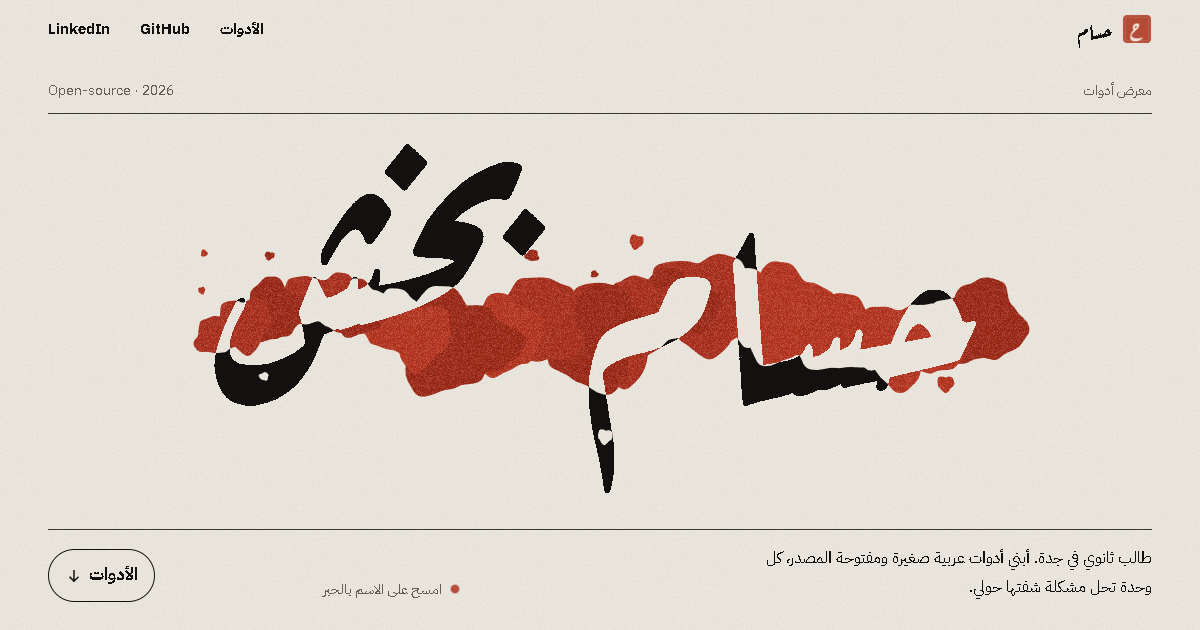
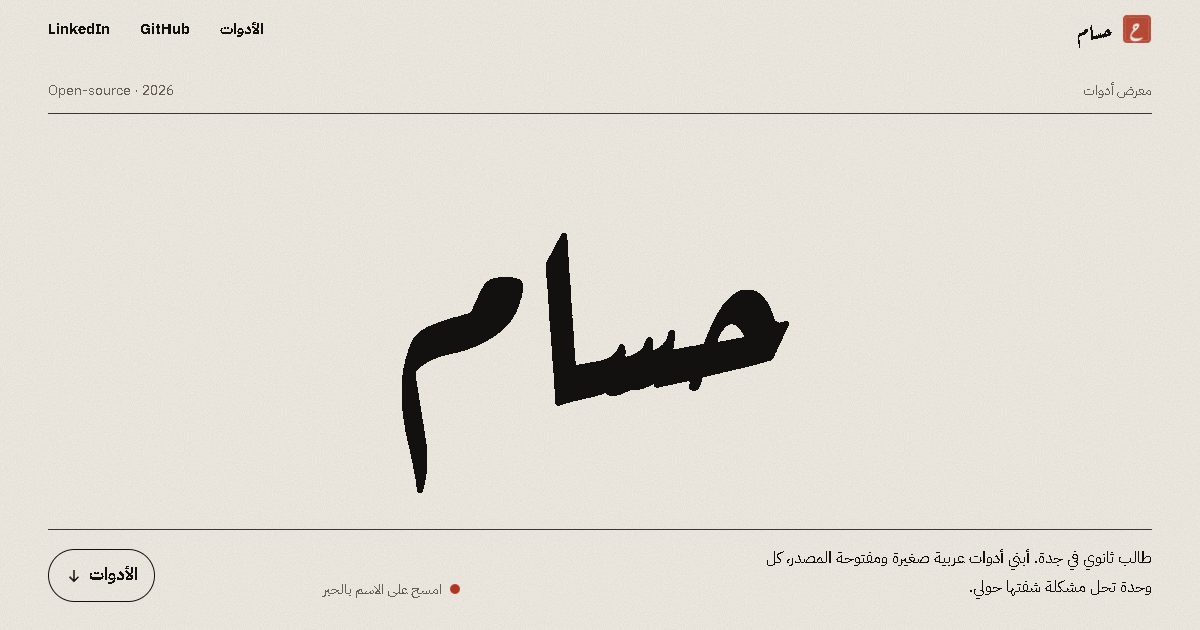
Preview: show the name as Hassam only

Changed region(s): [[0.1542, 0.2413, 0.8633, 0.7841], [0.5242, 0.3619, 0.555, 0.3921]]

diff --git a/preview/index.html b/preview/index.html
@@ -5,10 +5,10 @@
 <meta name="viewport" content="width=device-width,initial-scale=1">
 <meta name="robots" content="noindex">
 <title>أدوات حسام | Hassam's Tools</title>
-<meta name="description" content="معرض أدوات عربية مفتوحة المصدر من بناء حسام بخش: مهارات Claude، أوامر المعلم، حاسبة الموزونة، فاحص كلمة المرور، جدول المذاكرة، وأدوات النص العربي.">
+<meta name="description" content="معرض أدوات عربية مفتوحة المصدر من بناء حسام: مهارات Claude، أوامر المعلم، حاسبة الموزونة، فاحص كلمة المرور، جدول المذاكرة، وأدوات النص العربي.">
 <meta name="theme-color" content="#f2eee5">
 <meta property="og:type" content="website">
-<meta property="og:title" content="أدوات حسام بخش">
+<meta property="og:title" content="أدوات حسام">
 <meta property="og:description" content="ست أدوات عربية مفتوحة المصدر، مجرّبة وتشتغل في جهازك.">
 <meta property="og:url" content="https://hosam382.github.io/preview/">
 <meta property="og:image" content="https://hosam382.github.io/og.png">
@@ -39,7 +39,7 @@
     <span>معرض أدوات</span>
     <span lang="en">Open-source · 2026</span>
   </div>
-  <h1 id="name" class="big"><span class="word"><span class="w">حسام</span> <span class="w">بخش</span></span></h1>
+  <h1 id="name" class="big"><span class="word"><span class="w">حسام</span></span></h1>
   <canvas class="ink" aria-hidden="true"></canvas>
   <div class="foot-row">
     <p class="bio">طالب ثانوي في جدة. أبني أدوات عربية صغيرة ومفتوحة المصدر، كل وحدة تحل مشكلة شفتها حولي.</p>
@@ -156,7 +156,7 @@
 
 <footer class="end">
   <img src="seal.png" width="88" height="88" alt="">
-  <p class="name">حسام بخش</p>
+  <p class="name">حسام</p>
   <p class="links"><a href="https://github.com/hosam382" lang="en">GitHub</a><a href="https://www.linkedin.com/in/hassam-hussain-khada-bakhsa-74416b434" lang="en">LinkedIn</a><a href="https://github.com/hosam382/hosam382.github.io">كود هذي الصفحة</a></p>
   <p class="ai">بنيت هذي الأدوات بمساعدة الذكاء الاصطناعي (Claude)، وراجعتها واختبرتها بنفسي.</p>
 </footer>
